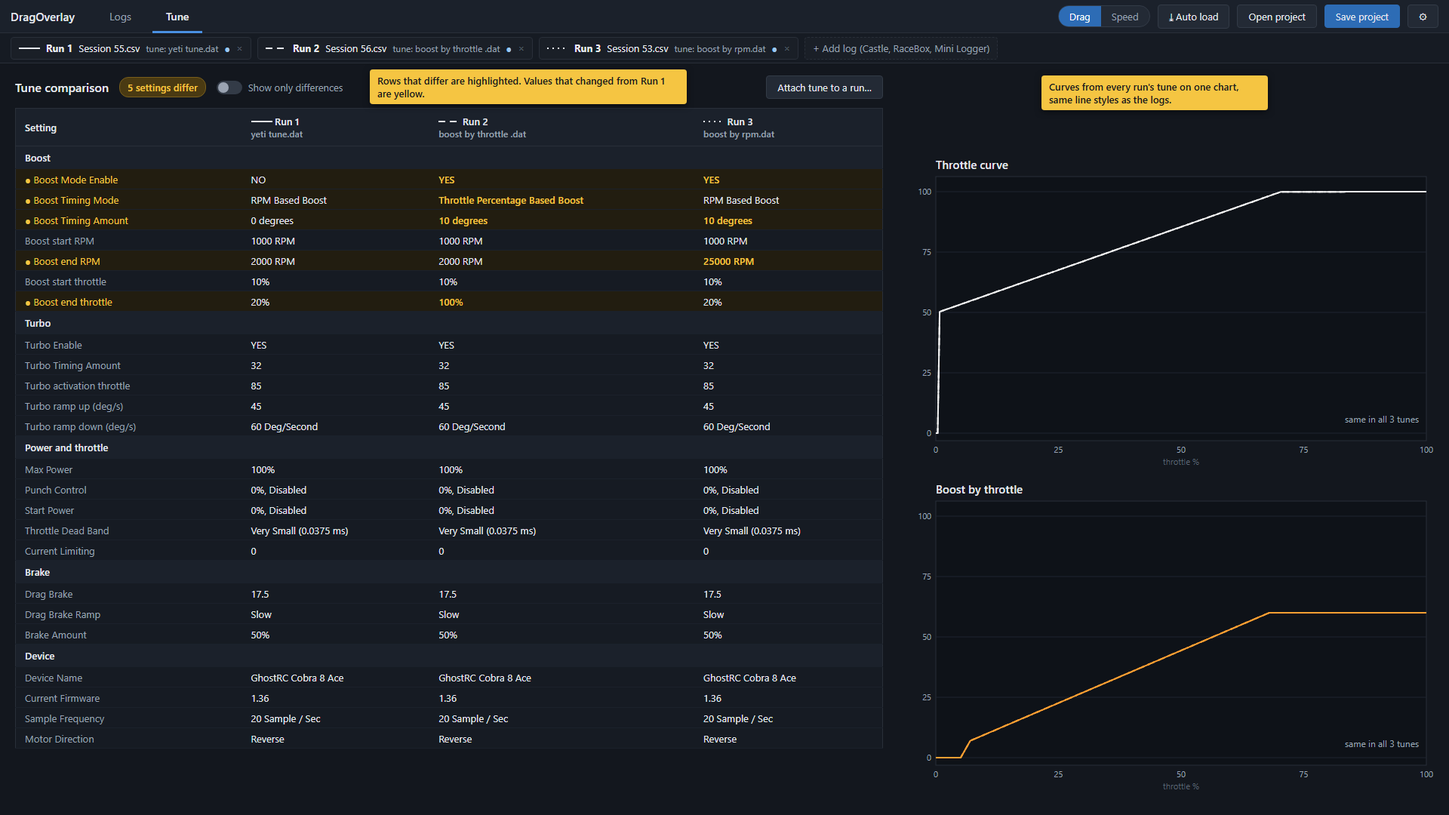
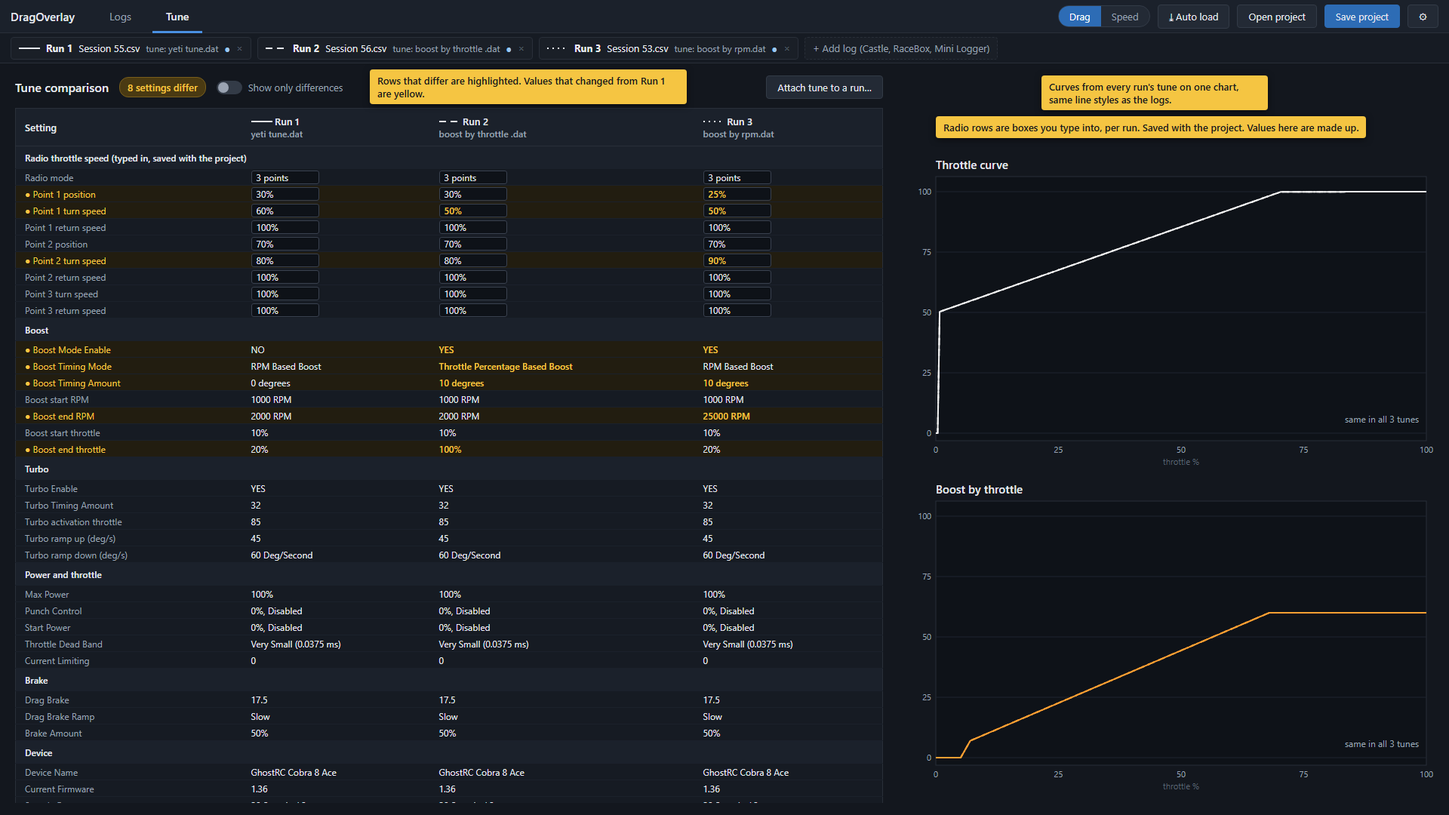
docs: add radio throttle speed settings to the Tune page mockup

diff --git a/Docs/mockups/tune-page.html b/Docs/mockups/tune-page.html
@@ -28,25 +28,28 @@ body { width: 1920px; height: 1080px; background: #13171E; color: #E6E9EF;
 table { width: 100%; border-collapse: collapse; background: #161B23; border: 1px solid #292F39; }
 th { text-align: left; padding: 8px 12px; background: #1B212B; font-weight: 600; border-bottom: 1px solid #292F39; }
 th:first-child { width: 300px; }
-td { padding: 0 12px; height: 27px; border-bottom: 1px solid #1B212B; font-variant-numeric: tabular-nums; }
+td { padding: 0 12px; height: 22px; font-size: 12px; border-bottom: 1px solid #1B212B; font-variant-numeric: tabular-nums; }
 td.k { color: #9AA3B2; }
 tr.g td { background: #1B212B; font-weight: 600; color: #E6E9EF; height: 30px; }
 tr.diff td { background: #221D10; }
 tr.diff td.k { color: #F5C542; }
 td.chg { color: #F5C542; font-weight: 600; }
+td.ed span { display: inline-block; min-width: 90px; padding: 0 6px; border: 1px solid #3A4250; border-radius: 3px; background: #0E1218; }
+.left { overflow: hidden; }
 </style></head><body><div class="top"><div class="brand">DragOverlay</div><div class="tab">Logs</div><div class="tab on">Tune</div><div class="sp"></div>
 <div class="pill"><span class="on">Drag</span><span>Speed</span></div>
 <div class="btn">⤓ Auto load</div><div class="btn">Open project</div><div class="btn pri">Save project</div><div class="btn">⚙</div></div><div class="strip"><div class="chip"><svg width="28" height="10"><line x1="0" y1="5" x2="28" y2="5" stroke="#E6E9EF" stroke-width="2" stroke-dasharray=""/></svg><b>Run 1</b><span>Session 55.csv</span><span class="lbl">tune: yeti tune.dat</span><span class="eye">●</span><span class="x">×</span></div><div class="chip"><svg width="28" height="10"><line x1="0" y1="5" x2="28" y2="5" stroke="#E6E9EF" stroke-width="2" stroke-dasharray="9 6"/></svg><b>Run 2</b><span>Session 56.csv</span><span class="lbl">tune: boost by throttle .dat</span><span class="eye">●</span><span class="x">×</span></div><div class="chip"><svg width="28" height="10"><line x1="0" y1="5" x2="28" y2="5" stroke="#E6E9EF" stroke-width="2" stroke-dasharray="2 5"/></svg><b>Run 3</b><span>Session 53.csv</span><span class="lbl">tune: boost by rpm.dat</span><span class="eye">●</span><span class="x">×</span></div><div class="chip add">+ Add log (Castle, RaceBox, Mini Logger)</div></div>
 <div class="main">
  <div class="left">
   <div class="bar"><span style="font-size:16px;font-weight:600">Tune comparison</span>
-   <span class="badge">5 settings differ</span>
+   <span class="badge">8 settings differ</span>
    <span class="tog"><span class="sw2"></span>Show only differences</span>
    <div class="sp"></div><div class="btn">Attach tune to a run…</div></div>
-  <table><tr><th>Setting</th><th><svg width="28" height="10"><line x1="0" y1="5" x2="28" y2="5" stroke="#E6E9EF" stroke-width="2" stroke-dasharray=""/></svg> Run 1<div class="lbl">yeti tune.dat</div></th><th><svg width="28" height="10"><line x1="0" y1="5" x2="28" y2="5" stroke="#E6E9EF" stroke-width="2" stroke-dasharray="9 6"/></svg> Run 2<div class="lbl">boost by throttle .dat</div></th><th><svg width="28" height="10"><line x1="0" y1="5" x2="28" y2="5" stroke="#E6E9EF" stroke-width="2" stroke-dasharray="2 5"/></svg> Run 3<div class="lbl">boost by rpm.dat</div></th></tr><tr class="g"><td colspan="4">Boost</td></tr><tr class="diff"><td class="k">● Boost Mode Enable</td><td class="">NO</td><td class="chg">YES</td><td class="chg">YES</td></tr><tr class="diff"><td class="k">● Boost Timing Mode</td><td class="">RPM Based Boost</td><td class="chg">Throttle Percentage Based Boost</td><td class="">RPM Based Boost</td></tr><tr class="diff"><td class="k">● Boost Timing Amount</td><td class="">0 degrees</td><td class="chg">10 degrees</td><td class="chg">10 degrees</td></tr><tr class=""><td class="k">Boost start RPM</td><td class="">1000 RPM</td><td class="">1000 RPM</td><td class="">1000 RPM</td></tr><tr class="diff"><td class="k">● Boost end RPM</td><td class="">2000 RPM</td><td class="">2000 RPM</td><td class="chg">25000 RPM</td></tr><tr class=""><td class="k">Boost start throttle</td><td class="">10%</td><td class="">10%</td><td class="">10%</td></tr><tr class="diff"><td class="k">● Boost end throttle</td><td class="">20%</td><td class="chg">100%</td><td class="">20%</td></tr><tr class="g"><td colspan="4">Turbo</td></tr><tr class=""><td class="k">Turbo Enable</td><td class="">YES</td><td class="">YES</td><td class="">YES</td></tr><tr class=""><td class="k">Turbo Timing Amount</td><td class="">32</td><td class="">32</td><td class="">32</td></tr><tr class=""><td class="k">Turbo activation throttle</td><td class="">85</td><td class="">85</td><td class="">85</td></tr><tr class=""><td class="k">Turbo ramp up (deg/s)</td><td class="">45</td><td class="">45</td><td class="">45</td></tr><tr class=""><td class="k">Turbo ramp down (deg/s)</td><td class="">60 Deg/Second</td><td class="">60 Deg/Second</td><td class="">60 Deg/Second</td></tr><tr class="g"><td colspan="4">Power and throttle</td></tr><tr class=""><td class="k">Max Power</td><td class="">100%</td><td class="">100%</td><td class="">100%</td></tr><tr class=""><td class="k">Punch Control</td><td class="">0%, Disabled</td><td class="">0%, Disabled</td><td class="">0%, Disabled</td></tr><tr class=""><td class="k">Start Power</td><td class="">0%, Disabled</td><td class="">0%, Disabled</td><td class="">0%, Disabled</td></tr><tr class=""><td class="k">Throttle Dead Band</td><td class="">Very Small (0.0375 ms)</td><td class="">Very Small (0.0375 ms)</td><td class="">Very Small (0.0375 ms)</td></tr><tr class=""><td class="k">Current Limiting</td><td class="">0</td><td class="">0</td><td class="">0</td></tr><tr class="g"><td colspan="4">Brake</td></tr><tr class=""><td class="k">Drag Brake</td><td class="">17.5</td><td class="">17.5</td><td class="">17.5</td></tr><tr class=""><td class="k">Drag Brake Ramp</td><td class="">Slow</td><td class="">Slow</td><td class="">Slow</td></tr><tr class=""><td class="k">Brake Amount</td><td class="">50%</td><td class="">50%</td><td class="">50%</td></tr><tr class="g"><td colspan="4">Device</td></tr><tr class=""><td class="k">Device Name</td><td class="">GhostRC Cobra 8 Ace</td><td class="">GhostRC Cobra 8 Ace</td><td class="">GhostRC Cobra 8 Ace</td></tr><tr class=""><td class="k">Current Firmware</td><td class="">1.36</td><td class="">1.36</td><td class="">1.36</td></tr><tr class=""><td class="k">Sample Frequency</td><td class="">20 Sample / Sec</td><td class="">20 Sample / Sec</td><td class="">20 Sample / Sec</td></tr><tr class=""><td class="k">Motor Direction</td><td class="">Reverse</td><td class="">Reverse</td><td class="">Reverse</td></tr></table>
+  <table><tr><th>Setting</th><th><svg width="28" height="10"><line x1="0" y1="5" x2="28" y2="5" stroke="#E6E9EF" stroke-width="2" stroke-dasharray=""/></svg> Run 1<div class="lbl">yeti tune.dat</div></th><th><svg width="28" height="10"><line x1="0" y1="5" x2="28" y2="5" stroke="#E6E9EF" stroke-width="2" stroke-dasharray="9 6"/></svg> Run 2<div class="lbl">boost by throttle .dat</div></th><th><svg width="28" height="10"><line x1="0" y1="5" x2="28" y2="5" stroke="#E6E9EF" stroke-width="2" stroke-dasharray="2 5"/></svg> Run 3<div class="lbl">boost by rpm.dat</div></th></tr><tr class="g"><td colspan="4">Radio throttle speed (typed in, saved with the project)</td></tr><tr class=""><td class="k">Radio mode</td><td class="ed"><span>3 points</span></td><td class="ed"><span>3 points</span></td><td class="ed"><span>3 points</span></td></tr><tr class="diff"><td class="k">● Point 1 position</td><td class="ed"><span>30%</span></td><td class="ed"><span>30%</span></td><td class="chg ed"><span>25%</span></td></tr><tr class="diff"><td class="k">● Point 1 turn speed</td><td class="ed"><span>60%</span></td><td class="chg ed"><span>50%</span></td><td class="chg ed"><span>50%</span></td></tr><tr class=""><td class="k">Point 1 return speed</td><td class="ed"><span>100%</span></td><td class="ed"><span>100%</span></td><td class="ed"><span>100%</span></td></tr><tr class=""><td class="k">Point 2 position</td><td class="ed"><span>70%</span></td><td class="ed"><span>70%</span></td><td class="ed"><span>70%</span></td></tr><tr class="diff"><td class="k">● Point 2 turn speed</td><td class="ed"><span>80%</span></td><td class="ed"><span>80%</span></td><td class="chg ed"><span>90%</span></td></tr><tr class=""><td class="k">Point 2 return speed</td><td class="ed"><span>100%</span></td><td class="ed"><span>100%</span></td><td class="ed"><span>100%</span></td></tr><tr class=""><td class="k">Point 3 turn speed</td><td class="ed"><span>100%</span></td><td class="ed"><span>100%</span></td><td class="ed"><span>100%</span></td></tr><tr class=""><td class="k">Point 3 return speed</td><td class="ed"><span>100%</span></td><td class="ed"><span>100%</span></td><td class="ed"><span>100%</span></td></tr><tr class="g"><td colspan="4">Boost</td></tr><tr class="diff"><td class="k">● Boost Mode Enable</td><td class=""><span>NO</span></td><td class="chg "><span>YES</span></td><td class="chg "><span>YES</span></td></tr><tr class="diff"><td class="k">● Boost Timing Mode</td><td class=""><span>RPM Based Boost</span></td><td class="chg "><span>Throttle Percentage Based Boost</span></td><td class=""><span>RPM Based Boost</span></td></tr><tr class="diff"><td class="k">● Boost Timing Amount</td><td class=""><span>0 degrees</span></td><td class="chg "><span>10 degrees</span></td><td class="chg "><span>10 degrees</span></td></tr><tr class=""><td class="k">Boost start RPM</td><td class=""><span>1000 RPM</span></td><td class=""><span>1000 RPM</span></td><td class=""><span>1000 RPM</span></td></tr><tr class="diff"><td class="k">● Boost end RPM</td><td class=""><span>2000 RPM</span></td><td class=""><span>2000 RPM</span></td><td class="chg "><span>25000 RPM</span></td></tr><tr class=""><td class="k">Boost start throttle</td><td class=""><span>10%</span></td><td class=""><span>10%</span></td><td class=""><span>10%</span></td></tr><tr class="diff"><td class="k">● Boost end throttle</td><td class=""><span>20%</span></td><td class="chg "><span>100%</span></td><td class=""><span>20%</span></td></tr><tr class="g"><td colspan="4">Turbo</td></tr><tr class=""><td class="k">Turbo Enable</td><td class=""><span>YES</span></td><td class=""><span>YES</span></td><td class=""><span>YES</span></td></tr><tr class=""><td class="k">Turbo Timing Amount</td><td class=""><span>32</span></td><td class=""><span>32</span></td><td class=""><span>32</span></td></tr><tr class=""><td class="k">Turbo activation throttle</td><td class=""><span>85</span></td><td class=""><span>85</span></td><td class=""><span>85</span></td></tr><tr class=""><td class="k">Turbo ramp up (deg/s)</td><td class=""><span>45</span></td><td class=""><span>45</span></td><td class=""><span>45</span></td></tr><tr class=""><td class="k">Turbo ramp down (deg/s)</td><td class=""><span>60 Deg/Second</span></td><td class=""><span>60 Deg/Second</span></td><td class=""><span>60 Deg/Second</span></td></tr><tr class="g"><td colspan="4">Power and throttle</td></tr><tr class=""><td class="k">Max Power</td><td class=""><span>100%</span></td><td class=""><span>100%</span></td><td class=""><span>100%</span></td></tr><tr class=""><td class="k">Punch Control</td><td class=""><span>0%, Disabled</span></td><td class=""><span>0%, Disabled</span></td><td class=""><span>0%, Disabled</span></td></tr><tr class=""><td class="k">Start Power</td><td class=""><span>0%, Disabled</span></td><td class=""><span>0%, Disabled</span></td><td class=""><span>0%, Disabled</span></td></tr><tr class=""><td class="k">Throttle Dead Band</td><td class=""><span>Very Small (0.0375 ms)</span></td><td class=""><span>Very Small (0.0375 ms)</span></td><td class=""><span>Very Small (0.0375 ms)</span></td></tr><tr class=""><td class="k">Current Limiting</td><td class=""><span>0</span></td><td class=""><span>0</span></td><td class=""><span>0</span></td></tr><tr class="g"><td colspan="4">Brake</td></tr><tr class=""><td class="k">Drag Brake</td><td class=""><span>17.5</span></td><td class=""><span>17.5</span></td><td class=""><span>17.5</span></td></tr><tr class=""><td class="k">Drag Brake Ramp</td><td class=""><span>Slow</span></td><td class=""><span>Slow</span></td><td class=""><span>Slow</span></td></tr><tr class=""><td class="k">Brake Amount</td><td class=""><span>50%</span></td><td class=""><span>50%</span></td><td class=""><span>50%</span></td></tr><tr class="g"><td colspan="4">Device</td></tr><tr class=""><td class="k">Device Name</td><td class=""><span>GhostRC Cobra 8 Ace</span></td><td class=""><span>GhostRC Cobra 8 Ace</span></td><td class=""><span>GhostRC Cobra 8 Ace</span></td></tr><tr class=""><td class="k">Current Firmware</td><td class=""><span>1.36</span></td><td class=""><span>1.36</span></td><td class=""><span>1.36</span></td></tr><tr class=""><td class="k">Sample Frequency</td><td class=""><span>20 Sample / Sec</span></td><td class=""><span>20 Sample / Sec</span></td><td class=""><span>20 Sample / Sec</span></td></tr><tr class=""><td class="k">Motor Direction</td><td class=""><span>Reverse</span></td><td class=""><span>Reverse</span></td><td class=""><span>Reverse</span></td></tr></table>
  </div>
 <div class="note" style="left:1380px; top:16px">Curves from every run's tune on one chart, same line styles as the logs.</div>
 <div class="note" style="left:490px; top:8px; max-width:420px">Rows that differ are highlighted. Values that changed from Run 1 are yellow.</div>
+<div class="note" style="left:1240px; top:70px; max-width:640px">Radio rows are boxes you type into, per run. Saved with the project. Values here are made up.</div>
 
 </div>
 <svg width="1920" height="1080" style="position:absolute;left:0;top:84px;pointer-events:none"><rect x="1240" y="150" width="650" height="350" fill="#0E1218" stroke="#292F39"/><text x="1240" y="140" fill="#E6E9EF" font-size="15" font-weight="600">Throttle curve</text><line x1="1240" y1="490.0" x2="1890" y2="490.0" stroke="#1E2530"/><text x="1234" y="494.0" fill="#9AA3B2" font-size="11" text-anchor="end">0</text><text x="1240.0" y="516" fill="#9AA3B2" font-size="11" text-anchor="middle">0</text><line x1="1240" y1="410.0" x2="1890" y2="410.0" stroke="#1E2530"/><text x="1234" y="414.0" fill="#9AA3B2" font-size="11" text-anchor="end">25</text><text x="1402.5" y="516" fill="#9AA3B2" font-size="11" text-anchor="middle">25</text><line x1="1240" y1="330.0" x2="1890" y2="330.0" stroke="#1E2530"/><text x="1234" y="334.0" fill="#9AA3B2" font-size="11" text-anchor="end">50</text><text x="1565.0" y="516" fill="#9AA3B2" font-size="11" text-anchor="middle">50</text><line x1="1240" y1="250.0" x2="1890" y2="250.0" stroke="#1E2530"/><text x="1234" y="254.0" fill="#9AA3B2" font-size="11" text-anchor="end">75</text><text x="1727.5" y="516" fill="#9AA3B2" font-size="11" text-anchor="middle">75</text><line x1="1240" y1="170.0" x2="1890" y2="170.0" stroke="#1E2530"/><text x="1234" y="174.0" fill="#9AA3B2" font-size="11" text-anchor="end">100</text><text x="1890.0" y="516" fill="#9AA3B2" font-size="11" text-anchor="middle">100</text><polyline points="1240.0,490.0 1242.5,490.0 1245.1,329.1 1247.6,328.2 1250.2,327.3 1252.7,326.4 1255.2,325.5 1257.8,324.6 1260.3,323.8 1262.9,322.9 1265.4,322.0 1267.9,321.1 1270.5,320.2 1273.0,319.3 1275.5,318.4 1278.1,317.5 1280.6,316.6 1283.2,315.7 1285.7,314.8 1288.2,313.9 1290.8,313.0 1293.3,312.2 1295.9,311.3 1298.4,310.4 1300.9,309.5 1303.5,308.6 1306.0,307.7 1308.6,306.8 1311.1,305.9 1313.6,305.0 1316.2,304.1 1318.7,303.2 1321.2,302.3 1323.8,301.4 1326.3,300.6 1328.9,299.7 1331.4,298.8 1333.9,297.9 1336.5,297.0 1339.0,296.1 1341.6,295.2 1344.1,294.3 1346.6,293.4 1349.2,292.5 1351.7,291.6 1354.3,290.7 1356.8,289.8 1359.3,289.0 1361.9,288.1 1364.4,287.2 1367.0,286.3 1369.5,285.4 1372.0,284.5 1374.6,283.6 1377.1,282.7 1379.6,281.8 1382.2,280.9 1384.7,280.0 1387.3,279.1 1389.8,278.2 1392.3,277.4 1394.9,276.5 1397.4,275.6 1400.0,274.7 1402.5,273.8 1405.0,272.9 1407.6,272.0 1410.1,271.1 1412.7,270.2 1415.2,269.3 1417.7,268.4 1420.3,267.5 1422.8,266.6 1425.4,265.8 1427.9,264.9 1430.4,264.0 1433.0,263.1 1435.5,262.2 1438.0,261.3 1440.6,260.4 1443.1,259.5 1445.7,258.6 1448.2,257.7 1450.7,256.8 1453.3,255.9 1455.8,255.0 1458.4,254.2 1460.9,253.3 1463.4,252.4 1466.0,251.5 1468.5,250.6 1471.1,249.7 1473.6,248.8 1476.1,247.9 1478.7,247.0 1481.2,246.1 1483.8,245.2 1486.3,244.3 1488.8,243.4 1491.4,242.5 1493.9,241.7 1496.4,240.8 1499.0,239.9 1501.5,239.0 1504.1,238.1 1506.6,237.2 1509.1,236.3 1511.7,235.4 1514.2,234.5 1516.8,233.6 1519.3,232.7 1521.8,231.8 1524.4,230.9 1526.9,230.1 1529.5,229.2 1532.0,228.3 1534.5,227.4 1537.1,226.5 1539.6,225.6 1542.1,224.7 1544.7,223.8 1547.2,222.9 1549.8,222.0 1552.3,221.1 1554.8,220.2 1557.4,219.3 1559.9,218.5 1562.5,217.6 1565.0,216.7 1567.5,215.8 1570.1,214.9 1572.6,214.0 1575.2,213.1 1577.7,212.2 1580.2,211.3 1582.8,210.4 1585.3,209.5 1587.9,208.6 1590.4,207.7 1592.9,206.9 1595.5,206.0 1598.0,205.1 1600.5,204.2 1603.1,203.3 1605.6,202.4 1608.2,201.5 1610.7,200.6 1613.2,199.7 1615.8,198.8 1618.3,197.9 1620.9,197.0 1623.4,196.1 1625.9,195.3 1628.5,194.4 1631.0,193.5 1633.6,192.6 1636.1,191.7 1638.6,190.8 1641.2,189.9 1643.7,189.0 1646.2,188.1 1648.8,187.2 1651.3,186.3 1653.9,185.4 1656.4,184.5 1658.9,183.7 1661.5,182.8 1664.0,181.9 1666.6,181.0 1669.1,180.1 1671.6,179.2 1674.2,178.3 1676.7,177.4 1679.3,176.5 1681.8,175.6 1684.3,174.7 1686.9,173.8 1689.4,172.9 1692.0,172.1 1694.5,171.2 1697.0,170.3 1699.6,170.3 1702.1,170.3 1704.6,170.3 1707.2,170.3 1709.7,170.2 1712.3,170.2 1714.8,170.2 1717.3,170.2 1719.9,170.2 1722.4,170.2 1725.0,170.2 1727.5,170.2 1730.0,170.2 1732.6,170.2 1735.1,170.2 1737.7,170.2 1740.2,170.2 1742.7,170.2 1745.3,170.2 1747.8,170.2 1750.4,170.2 1752.9,170.2 1755.4,170.2 1758.0,170.2 1760.5,170.2 1763.0,170.2 1765.6,170.2 1768.1,170.2 1770.7,170.2 1773.2,170.2 1775.7,170.2 1778.3,170.2 1780.8,170.2 1783.4,170.1 1785.9,170.1 1788.4,170.1 1791.0,170.1 1793.5,170.1 1796.1,170.1 1798.6,170.1 1801.1,170.1 1803.7,170.1 1806.2,170.1 1808.8,170.1 1811.3,170.1 1813.8,170.1 1816.4,170.1 1818.9,170.1 1821.4,170.1 1824.0,170.1 1826.5,170.1 1829.1,170.1 1831.6,170.1 1834.1,170.1 1836.7,170.1 1839.2,170.1 1841.8,170.1 1844.3,170.1 1846.8,170.1 1849.4,170.1 1851.9,170.1 1854.5,170.0 1857.0,170.0 1859.5,170.0 1862.1,170.0 1864.6,170.0 1867.1,170.0 1869.7,170.0 1872.2,170.0 1874.8,170.0 1877.3,170.0 1879.8,170.0 1882.4,170.0 1884.9,170.0 1887.5,170.0 1890.0,170.0" fill="none" stroke="#F0F0F0" stroke-width="2" stroke-dasharray="" stroke-linejoin="round" opacity="1.0"/><polyline points="1240.0,490.0 1242.5,490.0 1245.1,329.1 1247.6,328.2 1250.2,327.3 1252.7,326.4 1255.2,325.5 1257.8,324.6 1260.3,323.8 1262.9,322.9 1265.4,322.0 1267.9,321.1 1270.5,320.2 1273.0,319.3 1275.5,318.4 1278.1,317.5 1280.6,316.6 1283.2,315.7 1285.7,314.8 1288.2,313.9 1290.8,313.0 1293.3,312.2 1295.9,311.3 1298.4,310.4 1300.9,309.5 1303.5,308.6 1306.0,307.7 1308.6,306.8 1311.1,305.9 1313.6,305.0 1316.2,304.1 1318.7,303.2 1321.2,302.3 1323.8,301.4 1326.3,300.6 1328.9,299.7 1331.4,298.8 1333.9,297.9 1336.5,297.0 1339.0,296.1 1341.6,295.2 1344.1,294.3 1346.6,293.4 1349.2,292.5 1351.7,291.6 1354.3,290.7 1356.8,289.8 1359.3,289.0 1361.9,288.1 1364.4,287.2 1367.0,286.3 1369.5,285.4 1372.0,284.5 1374.6,283.6 1377.1,282.7 1379.6,281.8 1382.2,280.9 1384.7,280.0 1387.3,279.1 1389.8,278.2 1392.3,277.4 1394.9,276.5 1397.4,275.6 1400.0,274.7 1402.5,273.8 1405.0,272.9 1407.6,272.0 1410.1,271.1 1412.7,270.2 1415.2,269.3 1417.7,268.4 1420.3,267.5 1422.8,266.6 1425.4,265.8 1427.9,264.9 1430.4,264.0 1433.0,263.1 1435.5,262.2 1438.0,261.3 1440.6,260.4 1443.1,259.5 1445.7,258.6 1448.2,257.7 1450.7,256.8 1453.3,255.9 1455.8,255.0 1458.4,254.2 1460.9,253.3 1463.4,252.4 1466.0,251.5 1468.5,250.6 1471.1,249.7 1473.6,248.8 1476.1,247.9 1478.7,247.0 1481.2,246.1 1483.8,245.2 1486.3,244.3 1488.8,243.4 1491.4,242.5 1493.9,241.7 1496.4,240.8 1499.0,239.9 1501.5,239.0 1504.1,238.1 1506.6,237.2 1509.1,236.3 1511.7,235.4 1514.2,234.5 1516.8,233.6 1519.3,232.7 1521.8,231.8 1524.4,230.9 1526.9,230.1 1529.5,229.2 1532.0,228.3 1534.5,227.4 1537.1,226.5 1539.6,225.6 1542.1,224.7 1544.7,223.8 1547.2,222.9 1549.8,222.0 1552.3,221.1 1554.8,220.2 1557.4,219.3 1559.9,218.5 1562.5,217.6 1565.0,216.7 1567.5,215.8 1570.1,214.9 1572.6,214.0 1575.2,213.1 1577.7,212.2 1580.2,211.3 1582.8,210.4 1585.3,209.5 1587.9,208.6 1590.4,207.7 1592.9,206.9 1595.5,206.0 1598.0,205.1 1600.5,204.2 1603.1,203.3 1605.6,202.4 1608.2,201.5 1610.7,200.6 1613.2,199.7 1615.8,198.8 1618.3,197.9 1620.9,197.0 1623.4,196.1 1625.9,195.3 1628.5,194.4 1631.0,193.5 1633.6,192.6 1636.1,191.7 1638.6,190.8 1641.2,189.9 1643.7,189.0 1646.2,188.1 1648.8,187.2 1651.3,186.3 1653.9,185.4 1656.4,184.5 1658.9,183.7 1661.5,182.8 1664.0,181.9 1666.6,181.0 1669.1,180.1 1671.6,179.2 1674.2,178.3 1676.7,177.4 1679.3,176.5 1681.8,175.6 1684.3,174.7 1686.9,173.8 1689.4,172.9 1692.0,172.1 1694.5,171.2 1697.0,170.3 1699.6,170.3 1702.1,170.3 1704.6,170.3 1707.2,170.3 1709.7,170.2 1712.3,170.2 1714.8,170.2 1717.3,170.2 1719.9,170.2 1722.4,170.2 1725.0,170.2 1727.5,170.2 1730.0,170.2 1732.6,170.2 1735.1,170.2 1737.7,170.2 1740.2,170.2 1742.7,170.2 1745.3,170.2 1747.8,170.2 1750.4,170.2 1752.9,170.2 1755.4,170.2 1758.0,170.2 1760.5,170.2 1763.0,170.2 1765.6,170.2 1768.1,170.2 1770.7,170.2 1773.2,170.2 1775.7,170.2 1778.3,170.2 1780.8,170.2 1783.4,170.1 1785.9,170.1 1788.4,170.1 1791.0,170.1 1793.5,170.1 1796.1,170.1 1798.6,170.1 1801.1,170.1 1803.7,170.1 1806.2,170.1 1808.8,170.1 1811.3,170.1 1813.8,170.1 1816.4,170.1 1818.9,170.1 1821.4,170.1 1824.0,170.1 1826.5,170.1 1829.1,170.1 1831.6,170.1 1834.1,170.1 1836.7,170.1 1839.2,170.1 1841.8,170.1 1844.3,170.1 1846.8,170.1 1849.4,170.1 1851.9,170.1 1854.5,170.0 1857.0,170.0 1859.5,170.0 1862.1,170.0 1864.6,170.0 1867.1,170.0 1869.7,170.0 1872.2,170.0 1874.8,170.0 1877.3,170.0 1879.8,170.0 1882.4,170.0 1884.9,170.0 1887.5,170.0 1890.0,170.0" fill="none" stroke="#F0F0F0" stroke-width="2" stroke-dasharray="9 6" stroke-linejoin="round" opacity="1.0"/><polyline points="1240.0,490.0 1242.5,490.0 1245.1,329.1 1247.6,328.2 1250.2,327.3 1252.7,326.4 1255.2,325.5 1257.8,324.6 1260.3,323.8 1262.9,322.9 1265.4,322.0 1267.9,321.1 1270.5,320.2 1273.0,319.3 1275.5,318.4 1278.1,317.5 1280.6,316.6 1283.2,315.7 1285.7,314.8 1288.2,313.9 1290.8,313.0 1293.3,312.2 1295.9,311.3 1298.4,310.4 1300.9,309.5 1303.5,308.6 1306.0,307.7 1308.6,306.8 1311.1,305.9 1313.6,305.0 1316.2,304.1 1318.7,303.2 1321.2,302.3 1323.8,301.4 1326.3,300.6 1328.9,299.7 1331.4,298.8 1333.9,297.9 1336.5,297.0 1339.0,296.1 1341.6,295.2 1344.1,294.3 1346.6,293.4 1349.2,292.5 1351.7,291.6 1354.3,290.7 1356.8,289.8 1359.3,289.0 1361.9,288.1 1364.4,287.2 1367.0,286.3 1369.5,285.4 1372.0,284.5 1374.6,283.6 1377.1,282.7 1379.6,281.8 1382.2,280.9 1384.7,280.0 1387.3,279.1 1389.8,278.2 1392.3,277.4 1394.9,276.5 1397.4,275.6 1400.0,274.7 1402.5,273.8 1405.0,272.9 1407.6,272.0 1410.1,271.1 1412.7,270.2 1415.2,269.3 1417.7,268.4 1420.3,267.5 1422.8,266.6 1425.4,265.8 1427.9,264.9 1430.4,264.0 1433.0,263.1 1435.5,262.2 1438.0,261.3 1440.6,260.4 1443.1,259.5 1445.7,258.6 1448.2,257.7 1450.7,256.8 1453.3,255.9 1455.8,255.0 1458.4,254.2 1460.9,253.3 1463.4,252.4 1466.0,251.5 1468.5,250.6 1471.1,249.7 1473.6,248.8 1476.1,247.9 1478.7,247.0 1481.2,246.1 1483.8,245.2 1486.3,244.3 1488.8,243.4 1491.4,242.5 1493.9,241.7 1496.4,240.8 1499.0,239.9 1501.5,239.0 1504.1,238.1 1506.6,237.2 1509.1,236.3 1511.7,235.4 1514.2,234.5 1516.8,233.6 1519.3,232.7 1521.8,231.8 1524.4,230.9 1526.9,230.1 1529.5,229.2 1532.0,228.3 1534.5,227.4 1537.1,226.5 1539.6,225.6 1542.1,224.7 1544.7,223.8 1547.2,222.9 1549.8,222.0 1552.3,221.1 1554.8,220.2 1557.4,219.3 1559.9,218.5 1562.5,217.6 1565.0,216.7 1567.5,215.8 1570.1,214.9 1572.6,214.0 1575.2,213.1 1577.7,212.2 1580.2,211.3 1582.8,210.4 1585.3,209.5 1587.9,208.6 1590.4,207.7 1592.9,206.9 1595.5,206.0 1598.0,205.1 1600.5,204.2 1603.1,203.3 1605.6,202.4 1608.2,201.5 1610.7,200.6 1613.2,199.7 1615.8,198.8 1618.3,197.9 1620.9,197.0 1623.4,196.1 1625.9,195.3 1628.5,194.4 1631.0,193.5 1633.6,192.6 1636.1,191.7 1638.6,190.8 1641.2,189.9 1643.7,189.0 1646.2,188.1 1648.8,187.2 1651.3,186.3 1653.9,185.4 1656.4,184.5 1658.9,183.7 1661.5,182.8 1664.0,181.9 1666.6,181.0 1669.1,180.1 1671.6,179.2 1674.2,178.3 1676.7,177.4 1679.3,176.5 1681.8,175.6 1684.3,174.7 1686.9,173.8 1689.4,172.9 1692.0,172.1 1694.5,171.2 1697.0,170.3 1699.6,170.3 1702.1,170.3 1704.6,170.3 1707.2,170.3 1709.7,170.2 1712.3,170.2 1714.8,170.2 1717.3,170.2 1719.9,170.2 1722.4,170.2 1725.0,170.2 1727.5,170.2 1730.0,170.2 1732.6,170.2 1735.1,170.2 1737.7,170.2 1740.2,170.2 1742.7,170.2 1745.3,170.2 1747.8,170.2 1750.4,170.2 1752.9,170.2 1755.4,170.2 1758.0,170.2 1760.5,170.2 1763.0,170.2 1765.6,170.2 1768.1,170.2 1770.7,170.2 1773.2,170.2 1775.7,170.2 1778.3,170.2 1780.8,170.2 1783.4,170.1 1785.9,170.1 1788.4,170.1 1791.0,170.1 1793.5,170.1 1796.1,170.1 1798.6,170.1 1801.1,170.1 1803.7,170.1 1806.2,170.1 1808.8,170.1 1811.3,170.1 1813.8,170.1 1816.4,170.1 1818.9,170.1 1821.4,170.1 1824.0,170.1 1826.5,170.1 1829.1,170.1 1831.6,170.1 1834.1,170.1 1836.7,170.1 1839.2,170.1 1841.8,170.1 1844.3,170.1 1846.8,170.1 1849.4,170.1 1851.9,170.1 1854.5,170.0 1857.0,170.0 1859.5,170.0 1862.1,170.0 1864.6,170.0 1867.1,170.0 1869.7,170.0 1872.2,170.0 1874.8,170.0 1877.3,170.0 1879.8,170.0 1882.4,170.0 1884.9,170.0 1887.5,170.0 1890.0,170.0" fill="none" stroke="#F0F0F0" stroke-width="2" stroke-dasharray="2 5" stroke-linejoin="round" opacity="1.0"/><text x="1880" y="476" fill="#9AA3B2" font-size="12" text-anchor="end">same in all 3 tunes</text><text x="1565.0" y="532" fill="#5C6573" font-size="11" text-anchor="middle">throttle %</text><rect x="1240" y="580" width="650" height="350" fill="#0E1218" stroke="#292F39"/><text x="1240" y="570" fill="#E6E9EF" font-size="15" font-weight="600">Boost by throttle</text><line x1="1240" y1="920.0" x2="1890" y2="920.0" stroke="#1E2530"/><text x="1234" y="924.0" fill="#9AA3B2" font-size="11" text-anchor="end">0</text><text x="1240.0" y="946" fill="#9AA3B2" font-size="11" text-anchor="middle">0</text><line x1="1240" y1="840.0" x2="1890" y2="840.0" stroke="#1E2530"/><text x="1234" y="844.0" fill="#9AA3B2" font-size="11" text-anchor="end">25</text><text x="1402.5" y="946" fill="#9AA3B2" font-size="11" text-anchor="middle">25</text><line x1="1240" y1="760.0" x2="1890" y2="760.0" stroke="#1E2530"/><text x="1234" y="764.0" fill="#9AA3B2" font-size="11" text-anchor="end">50</text><text x="1565.0" y="946" fill="#9AA3B2" font-size="11" text-anchor="middle">50</text><line x1="1240" y1="680.0" x2="1890" y2="680.0" stroke="#1E2530"/><text x="1234" y="684.0" fill="#9AA3B2" font-size="11" text-anchor="end">75</text><text x="1727.5" y="946" fill="#9AA3B2" font-size="11" text-anchor="middle">75</text><line x1="1240" y1="600.0" x2="1890" y2="600.0" stroke="#1E2530"/><text x="1234" y="604.0" fill="#9AA3B2" font-size="11" text-anchor="end">100</text><text x="1890.0" y="946" fill="#9AA3B2" font-size="11" text-anchor="middle">100</text><polyline points="1240.0,920.0 1242.5,920.0 1245.1,920.0 1247.6,920.0 1250.2,920.0 1252.7,920.0 1255.2,920.0 1257.8,920.0 1260.3,920.0 1262.9,920.0 1265.4,920.0 1267.9,920.0 1270.5,920.0 1273.0,920.0 1275.5,915.5 1278.1,911.0 1280.6,906.6 1283.2,902.1 1285.7,897.6 1288.2,896.5 1290.8,895.4 1293.3,894.3 1295.9,893.3 1298.4,892.2 1300.9,891.1 1303.5,890.0 1306.0,888.9 1308.6,887.8 1311.1,886.7 1313.6,885.6 1316.2,884.6 1318.7,883.5 1321.2,882.4 1323.8,881.3 1326.3,880.2 1328.9,879.1 1331.4,878.0 1333.9,876.9 1336.5,875.9 1339.0,874.8 1341.6,873.7 1344.1,872.6 1346.6,871.5 1349.2,870.4 1351.7,869.3 1354.3,868.2 1356.8,867.2 1359.3,866.1 1361.9,865.0 1364.4,863.9 1367.0,862.8 1369.5,861.7 1372.0,860.6 1374.6,859.5 1377.1,858.5 1379.6,857.4 1382.2,856.3 1384.7,855.2 1387.3,854.1 1389.8,853.0 1392.3,851.9 1394.9,850.9 1397.4,849.8 1400.0,848.7 1402.5,847.6 1405.0,846.5 1407.6,845.4 1410.1,844.3 1412.7,843.2 1415.2,842.2 1417.7,841.1 1420.3,840.0 1422.8,838.9 1425.4,837.8 1427.9,836.7 1430.4,835.6 1433.0,834.5 1435.5,833.5 1438.0,832.4 1440.6,831.3 1443.1,830.2 1445.7,829.1 1448.2,828.0 1450.7,826.9 1453.3,825.8 1455.8,824.8 1458.4,823.7 1460.9,822.6 1463.4,821.5 1466.0,820.4 1468.5,819.3 1471.1,818.2 1473.6,817.2 1476.1,816.1 1478.7,815.0 1481.2,813.9 1483.8,812.8 1486.3,811.7 1488.8,810.6 1491.4,809.5 1493.9,808.5 1496.4,807.4 1499.0,806.3 1501.5,805.2 1504.1,804.1 1506.6,803.0 1509.1,801.9 1511.7,800.8 1514.2,799.8 1516.8,798.7 1519.3,797.6 1521.8,796.5 1524.4,795.4 1526.9,794.3 1529.5,793.2 1532.0,792.1 1534.5,791.1 1537.1,790.0 1539.6,788.9 1542.1,787.8 1544.7,786.7 1547.2,785.6 1549.8,784.5 1552.3,783.4 1554.8,782.4 1557.4,781.3 1559.9,780.2 1562.5,779.1 1565.0,778.0 1567.5,776.9 1570.1,775.8 1572.6,774.7 1575.2,773.7 1577.7,772.6 1580.2,771.5 1582.8,770.4 1585.3,769.3 1587.9,768.2 1590.4,767.1 1592.9,766.1 1595.5,765.0 1598.0,763.9 1600.5,762.8 1603.1,761.7 1605.6,760.6 1608.2,759.5 1610.7,758.4 1613.2,757.4 1615.8,756.3 1618.3,755.2 1620.9,754.1 1623.4,753.0 1625.9,751.9 1628.5,750.8 1631.0,749.7 1633.6,748.7 1636.1,747.6 1638.6,746.5 1641.2,745.4 1643.7,744.3 1646.2,743.2 1648.8,742.1 1651.3,741.0 1653.9,740.0 1656.4,738.9 1658.9,737.8 1661.5,736.7 1664.0,735.6 1666.6,734.5 1669.1,733.4 1671.6,732.4 1674.2,731.3 1676.7,730.2 1679.3,729.1 1681.8,728.0 1684.3,728.0 1686.9,728.0 1689.4,728.0 1692.0,728.0 1694.5,728.0 1697.0,728.0 1699.6,728.0 1702.1,728.0 1704.6,728.0 1707.2,728.0 1709.7,728.0 1712.3,728.0 1714.8,728.0 1717.3,728.0 1719.9,728.0 1722.4,728.0 1725.0,728.0 1727.5,728.0 1730.0,728.0 1732.6,728.0 1735.1,728.0 1737.7,728.0 1740.2,728.0 1742.7,728.0 1745.3,728.0 1747.8,728.0 1750.4,728.0 1752.9,728.0 1755.4,728.0 1758.0,728.0 1760.5,728.0 1763.0,728.0 1765.6,728.0 1768.1,728.0 1770.7,728.0 1773.2,728.0 1775.7,728.0 1778.3,728.0 1780.8,728.0 1783.4,728.0 1785.9,728.0 1788.4,728.0 1791.0,728.0 1793.5,728.0 1796.1,728.0 1798.6,728.0 1801.1,728.0 1803.7,728.0 1806.2,728.0 1808.8,728.0 1811.3,728.0 1813.8,728.0 1816.4,728.0 1818.9,728.0 1821.4,728.0 1824.0,728.0 1826.5,728.0 1829.1,728.0 1831.6,728.0 1834.1,728.0 1836.7,728.0 1839.2,728.0 1841.8,728.0 1844.3,728.0 1846.8,728.0 1849.4,728.0 1851.9,728.0 1854.5,728.0 1857.0,728.0 1859.5,728.0 1862.1,728.0 1864.6,728.0 1867.1,728.0 1869.7,728.0 1872.2,728.0 1874.8,728.0 1877.3,728.0 1879.8,728.0 1882.4,728.0 1884.9,728.0 1887.5,728.0 1890.0,728.0" fill="none" stroke="#FFA033" stroke-width="2" stroke-dasharray="" stroke-linejoin="round" opacity="1.0"/><polyline points="1240.0,920.0 1242.5,920.0 1245.1,920.0 1247.6,920.0 1250.2,920.0 1252.7,920.0 1255.2,920.0 1257.8,920.0 1260.3,920.0 1262.9,920.0 1265.4,920.0 1267.9,920.0 1270.5,920.0 1273.0,920.0 1275.5,915.5 1278.1,911.0 1280.6,906.6 1283.2,902.1 1285.7,897.6 1288.2,896.5 1290.8,895.4 1293.3,894.3 1295.9,893.3 1298.4,892.2 1300.9,891.1 1303.5,890.0 1306.0,888.9 1308.6,887.8 1311.1,886.7 1313.6,885.6 1316.2,884.6 1318.7,883.5 1321.2,882.4 1323.8,881.3 1326.3,880.2 1328.9,879.1 1331.4,878.0 1333.9,876.9 1336.5,875.9 1339.0,874.8 1341.6,873.7 1344.1,872.6 1346.6,871.5 1349.2,870.4 1351.7,869.3 1354.3,868.2 1356.8,867.2 1359.3,866.1 1361.9,865.0 1364.4,863.9 1367.0,862.8 1369.5,861.7 1372.0,860.6 1374.6,859.5 1377.1,858.5 1379.6,857.4 1382.2,856.3 1384.7,855.2 1387.3,854.1 1389.8,853.0 1392.3,851.9 1394.9,850.9 1397.4,849.8 1400.0,848.7 1402.5,847.6 1405.0,846.5 1407.6,845.4 1410.1,844.3 1412.7,843.2 1415.2,842.2 1417.7,841.1 1420.3,840.0 1422.8,838.9 1425.4,837.8 1427.9,836.7 1430.4,835.6 1433.0,834.5 1435.5,833.5 1438.0,832.4 1440.6,831.3 1443.1,830.2 1445.7,829.1 1448.2,828.0 1450.7,826.9 1453.3,825.8 1455.8,824.8 1458.4,823.7 1460.9,822.6 1463.4,821.5 1466.0,820.4 1468.5,819.3 1471.1,818.2 1473.6,817.2 1476.1,816.1 1478.7,815.0 1481.2,813.9 1483.8,812.8 1486.3,811.7 1488.8,810.6 1491.4,809.5 1493.9,808.5 1496.4,807.4 1499.0,806.3 1501.5,805.2 1504.1,804.1 1506.6,803.0 1509.1,801.9 1511.7,800.8 1514.2,799.8 1516.8,798.7 1519.3,797.6 1521.8,796.5 1524.4,795.4 1526.9,794.3 1529.5,793.2 1532.0,792.1 1534.5,791.1 1537.1,790.0 1539.6,788.9 1542.1,787.8 1544.7,786.7 1547.2,785.6 1549.8,784.5 1552.3,783.4 1554.8,782.4 1557.4,781.3 1559.9,780.2 1562.5,779.1 1565.0,778.0 1567.5,776.9 1570.1,775.8 1572.6,774.7 1575.2,773.7 1577.7,772.6 1580.2,771.5 1582.8,770.4 1585.3,769.3 1587.9,768.2 1590.4,767.1 1592.9,766.1 1595.5,765.0 1598.0,763.9 1600.5,762.8 1603.1,761.7 1605.6,760.6 1608.2,759.5 1610.7,758.4 1613.2,757.4 1615.8,756.3 1618.3,755.2 1620.9,754.1 1623.4,753.0 1625.9,751.9 1628.5,750.8 1631.0,749.7 1633.6,748.7 1636.1,747.6 1638.6,746.5 1641.2,745.4 1643.7,744.3 1646.2,743.2 1648.8,742.1 1651.3,741.0 1653.9,740.0 1656.4,738.9 1658.9,737.8 1661.5,736.7 1664.0,735.6 1666.6,734.5 1669.1,733.4 1671.6,732.4 1674.2,731.3 1676.7,730.2 1679.3,729.1 1681.8,728.0 1684.3,728.0 1686.9,728.0 1689.4,728.0 1692.0,728.0 1694.5,728.0 1697.0,728.0 1699.6,728.0 1702.1,728.0 1704.6,728.0 1707.2,728.0 1709.7,728.0 1712.3,728.0 1714.8,728.0 1717.3,728.0 1719.9,728.0 1722.4,728.0 1725.0,728.0 1727.5,728.0 1730.0,728.0 1732.6,728.0 1735.1,728.0 1737.7,728.0 1740.2,728.0 1742.7,728.0 1745.3,728.0 1747.8,728.0 1750.4,728.0 1752.9,728.0 1755.4,728.0 1758.0,728.0 1760.5,728.0 1763.0,728.0 1765.6,728.0 1768.1,728.0 1770.7,728.0 1773.2,728.0 1775.7,728.0 1778.3,728.0 1780.8,728.0 1783.4,728.0 1785.9,728.0 1788.4,728.0 1791.0,728.0 1793.5,728.0 1796.1,728.0 1798.6,728.0 1801.1,728.0 1803.7,728.0 1806.2,728.0 1808.8,728.0 1811.3,728.0 1813.8,728.0 1816.4,728.0 1818.9,728.0 1821.4,728.0 1824.0,728.0 1826.5,728.0 1829.1,728.0 1831.6,728.0 1834.1,728.0 1836.7,728.0 1839.2,728.0 1841.8,728.0 1844.3,728.0 1846.8,728.0 1849.4,728.0 1851.9,728.0 1854.5,728.0 1857.0,728.0 1859.5,728.0 1862.1,728.0 1864.6,728.0 1867.1,728.0 1869.7,728.0 1872.2,728.0 1874.8,728.0 1877.3,728.0 1879.8,728.0 1882.4,728.0 1884.9,728.0 1887.5,728.0 1890.0,728.0" fill="none" stroke="#FFA033" stroke-width="2" stroke-dasharray="9 6" stroke-linejoin="round" opacity="1.0"/><polyline points="1240.0,920.0 1242.5,920.0 1245.1,920.0 1247.6,920.0 1250.2,920.0 1252.7,920.0 1255.2,920.0 1257.8,920.0 1260.3,920.0 1262.9,920.0 1265.4,920.0 1267.9,920.0 1270.5,920.0 1273.0,920.0 1275.5,915.5 1278.1,911.0 1280.6,906.6 1283.2,902.1 1285.7,897.6 1288.2,896.5 1290.8,895.4 1293.3,894.3 1295.9,893.3 1298.4,892.2 1300.9,891.1 1303.5,890.0 1306.0,888.9 1308.6,887.8 1311.1,886.7 1313.6,885.6 1316.2,884.6 1318.7,883.5 1321.2,882.4 1323.8,881.3 1326.3,880.2 1328.9,879.1 1331.4,878.0 1333.9,876.9 1336.5,875.9 1339.0,874.8 1341.6,873.7 1344.1,872.6 1346.6,871.5 1349.2,870.4 1351.7,869.3 1354.3,868.2 1356.8,867.2 1359.3,866.1 1361.9,865.0 1364.4,863.9 1367.0,862.8 1369.5,861.7 1372.0,860.6 1374.6,859.5 1377.1,858.5 1379.6,857.4 1382.2,856.3 1384.7,855.2 1387.3,854.1 1389.8,853.0 1392.3,851.9 1394.9,850.9 1397.4,849.8 1400.0,848.7 1402.5,847.6 1405.0,846.5 1407.6,845.4 1410.1,844.3 1412.7,843.2 1415.2,842.2 1417.7,841.1 1420.3,840.0 1422.8,838.9 1425.4,837.8 1427.9,836.7 1430.4,835.6 1433.0,834.5 1435.5,833.5 1438.0,832.4 1440.6,831.3 1443.1,830.2 1445.7,829.1 1448.2,828.0 1450.7,826.9 1453.3,825.8 1455.8,824.8 1458.4,823.7 1460.9,822.6 1463.4,821.5 1466.0,820.4 1468.5,819.3 1471.1,818.2 1473.6,817.2 1476.1,816.1 1478.7,815.0 1481.2,813.9 1483.8,812.8 1486.3,811.7 1488.8,810.6 1491.4,809.5 1493.9,808.5 1496.4,807.4 1499.0,806.3 1501.5,805.2 1504.1,804.1 1506.6,803.0 1509.1,801.9 1511.7,800.8 1514.2,799.8 1516.8,798.7 1519.3,797.6 1521.8,796.5 1524.4,795.4 1526.9,794.3 1529.5,793.2 1532.0,792.1 1534.5,791.1 1537.1,790.0 1539.6,788.9 1542.1,787.8 1544.7,786.7 1547.2,785.6 1549.8,784.5 1552.3,783.4 1554.8,782.4 1557.4,781.3 1559.9,780.2 1562.5,779.1 1565.0,778.0 1567.5,776.9 1570.1,775.8 1572.6,774.7 1575.2,773.7 1577.7,772.6 1580.2,771.5 1582.8,770.4 1585.3,769.3 1587.9,768.2 1590.4,767.1 1592.9,766.1 1595.5,765.0 1598.0,763.9 1600.5,762.8 1603.1,761.7 1605.6,760.6 1608.2,759.5 1610.7,758.4 1613.2,757.4 1615.8,756.3 1618.3,755.2 1620.9,754.1 1623.4,753.0 1625.9,751.9 1628.5,750.8 1631.0,749.7 1633.6,748.7 1636.1,747.6 1638.6,746.5 1641.2,745.4 1643.7,744.3 1646.2,743.2 1648.8,742.1 1651.3,741.0 1653.9,740.0 1656.4,738.9 1658.9,737.8 1661.5,736.7 1664.0,735.6 1666.6,734.5 1669.1,733.4 1671.6,732.4 1674.2,731.3 1676.7,730.2 1679.3,729.1 1681.8,728.0 1684.3,728.0 1686.9,728.0 1689.4,728.0 1692.0,728.0 1694.5,728.0 1697.0,728.0 1699.6,728.0 1702.1,728.0 1704.6,728.0 1707.2,728.0 1709.7,728.0 1712.3,728.0 1714.8,728.0 1717.3,728.0 1719.9,728.0 1722.4,728.0 1725.0,728.0 1727.5,728.0 1730.0,728.0 1732.6,728.0 1735.1,728.0 1737.7,728.0 1740.2,728.0 1742.7,728.0 1745.3,728.0 1747.8,728.0 1750.4,728.0 1752.9,728.0 1755.4,728.0 1758.0,728.0 1760.5,728.0 1763.0,728.0 1765.6,728.0 1768.1,728.0 1770.7,728.0 1773.2,728.0 1775.7,728.0 1778.3,728.0 1780.8,728.0 1783.4,728.0 1785.9,728.0 1788.4,728.0 1791.0,728.0 1793.5,728.0 1796.1,728.0 1798.6,728.0 1801.1,728.0 1803.7,728.0 1806.2,728.0 1808.8,728.0 1811.3,728.0 1813.8,728.0 1816.4,728.0 1818.9,728.0 1821.4,728.0 1824.0,728.0 1826.5,728.0 1829.1,728.0 1831.6,728.0 1834.1,728.0 1836.7,728.0 1839.2,728.0 1841.8,728.0 1844.3,728.0 1846.8,728.0 1849.4,728.0 1851.9,728.0 1854.5,728.0 1857.0,728.0 1859.5,728.0 1862.1,728.0 1864.6,728.0 1867.1,728.0 1869.7,728.0 1872.2,728.0 1874.8,728.0 1877.3,728.0 1879.8,728.0 1882.4,728.0 1884.9,728.0 1887.5,728.0 1890.0,728.0" fill="none" stroke="#FFA033" stroke-width="2" stroke-dasharray="2 5" stroke-linejoin="round" opacity="1.0"/><text x="1880" y="906" fill="#9AA3B2" font-size="12" text-anchor="end">same in all 3 tunes</text><text x="1565.0" y="962" fill="#5C6573" font-size="11" text-anchor="middle">throttle %</text></svg></body></html>

diff --git a/Docs/mockups/build_mockups.py b/Docs/mockups/build_mockups.py
@@ -251,7 +251,21 @@ def logs_page():
 
 # ---------------------------------------------------------------- tune page
 
+# Radio throttle speed is typed in per run (it is not in the .dat file).
+# Values below are made up for the mockup.
+RADIO_KEYS = ["Radio mode", "Point 1 position", "Point 1 turn speed", "Point 1 return speed",
+              "Point 2 position", "Point 2 turn speed", "Point 2 return speed",
+              "Point 3 turn speed", "Point 3 return speed"]
+RADIO_VALUES = [
+    ["3 points", "30%", "60%", "100%", "70%", "80%", "100%", "100%", "100%"],
+    ["3 points", "30%", "50%", "100%", "70%", "80%", "100%", "100%", "100%"],
+    ["3 points", "25%", "50%", "100%", "70%", "90%", "100%", "100%", "100%"],
+]
+for _i, _t in enumerate(tunes):
+    _t.update(zip(RADIO_KEYS, RADIO_VALUES[_i]))
+
 TUNE_ROWS = [
+    ("Radio throttle speed (typed in, saved with the project)", RADIO_KEYS),
     ("Boost", ["Boost Mode Enable", "Boost Timing Mode", "Boost Timing Amount",
                "Boost RPM Activation Range - Start RPM", "Boost RPM Activation Range - End RPM",
                "Boost Throttle Activation Range - Start RPM", "Boost Throttle Activation Range - End RPM"]),
@@ -284,7 +298,8 @@ def tune_page():
             cells = ""
             for i, v in enumerate(vals):
                 changed = diff and v != vals[0]
-                cells += f'<td class="{"chg" if changed else ""}">{html.escape(v)}</td>'
+                cls = ("chg " if changed else "") + ("ed" if k in RADIO_KEYS else "")
+                cells += f'<td class="{cls}"><span>{html.escape(v)}</span></td>'
             body += f'<tr class="{"diff" if diff else ""}"><td class="k">{"● " if diff else ""}{html.escape(NICE.get(k, k))}</td>{cells}</tr>'
 
     # Curve charts on the right
@@ -319,16 +334,19 @@ def tune_page():
 table { width: 100%; border-collapse: collapse; background: #161B23; border: 1px solid #292F39; }
 th { text-align: left; padding: 8px 12px; background: #1B212B; font-weight: 600; border-bottom: 1px solid #292F39; }
 th:first-child { width: 300px; }
-td { padding: 0 12px; height: 27px; border-bottom: 1px solid #1B212B; font-variant-numeric: tabular-nums; }
+td { padding: 0 12px; height: 22px; font-size: 12px; border-bottom: 1px solid #1B212B; font-variant-numeric: tabular-nums; }
 td.k { color: #9AA3B2; }
 tr.g td { background: #1B212B; font-weight: 600; color: #E6E9EF; height: 30px; }
 tr.diff td { background: #221D10; }
 tr.diff td.k { color: #F5C542; }
 td.chg { color: #F5C542; font-weight: 600; }
+td.ed span { display: inline-block; min-width: 90px; padding: 0 6px; border: 1px solid #3A4250; border-radius: 3px; background: #0E1218; }
+.left { overflow: hidden; }
 """
     notes = """
 <div class="note" style="left:1380px; top:16px">Curves from every run's tune on one chart, same line styles as the logs.</div>
 <div class="note" style="left:490px; top:8px; max-width:420px">Rows that differ are highlighted. Values that changed from Run 1 are yellow.</div>
+<div class="note" style="left:1240px; top:70px; max-width:640px">Radio rows are boxes you type into, per run. Saved with the project. Values here are made up.</div>
 """
     page = f"""
 <div class="main">

diff --git a/Docs/UI_Layout_Plan.md b/Docs/UI_Layout_Plan.md
@@ -37,6 +37,10 @@ BBRC Stock Data Logger).
    - A settings table with one column per run (Run 1, 2, 3) and one row per
      setting: throttle curve points, radio settings, boost, turbo, max power,
      drag brake, sample rate, firmware.
+   - The table includes the radio throttle speed settings for each run:
+     radio mode, and for points 1, 2 and 3 the point position (points 1 and
+     2), turn speed and return speed. These are typed in per run, not read
+     from the .dat file, and are saved with the project.
    - Rows where the runs differ are highlighted, with an option to show only
      the rows that differ.
    - Throttle curve and boost-by-throttle curve are overlaid, one line per run,
